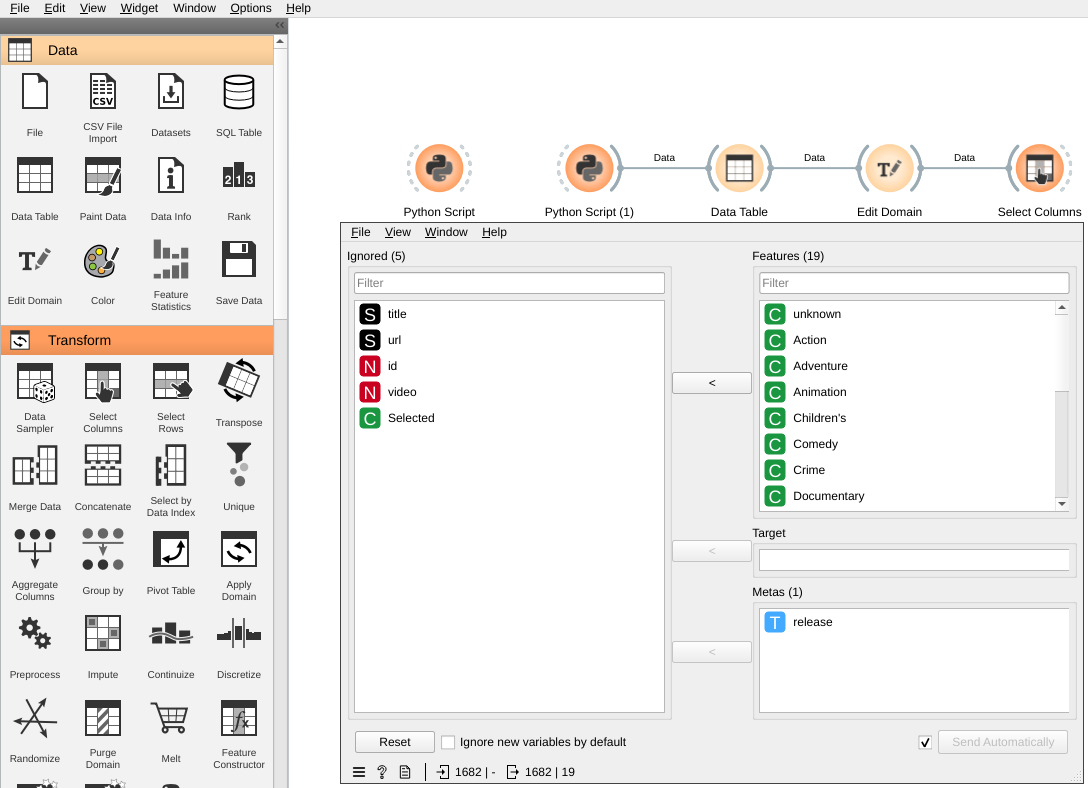
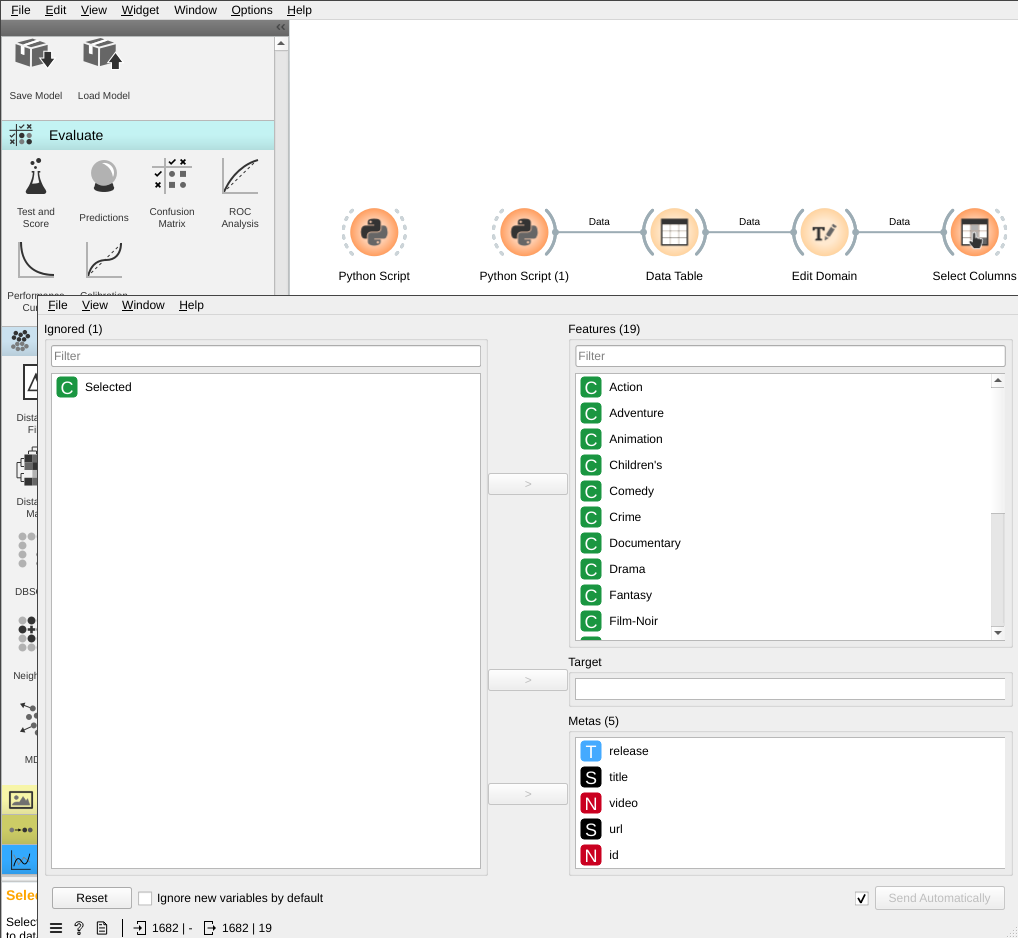
update lab3

diff --git a/lab3.md b/lab3.md
@@ -171,17 +171,19 @@ The `release` column contains the release date of the movie. It could be convert
 
 ![](lab3/images/edit_domain.png)
 
-Some of the columns in the dataset are not useful for finding similar movies. For example, the `id` column is just an identifier for the movie. The `title` column contains the title of the movie. The `video` column contains empty values. The `url` column contains the IMDb URL of the movie. The `Selected` column is generated by the `Edit Domain` widget. These columns are not useful for finding similar movies. Thus, we will remove these columns using the `Select Columns` widget.
+The `Selected` column is generated by the `Edit Domain` widget. It's not useful for finding similar movies. Thus, we will remove this column using the `Select Columns` widget.
 
 ![screenshot](lab3/images/select_columns.png)
 
-Please add a `Select Columns` widget and connect the `Edit Domain` widget to the `Select Columns` widget. Then, click on the `Select Columns` widget and select the columns you want to keep. In this case, we will keep all columns except `id`, `title`, `release`, `video`, `url` and `Selected` columns.
+Please add a `Select Columns` widget and connect the `Edit Domain` widget to the `Select Columns` widget. Then, click on the `Select Columns` widget and select the columns you want to keep. In this case, we will keep all columns except `Selected` column.
 
 ## Calculate the distance
 
 In order to measure the similarity between two movies, we need to calculate the distance between two movies. To calculate the distance between two movies, please add a `Distance` widget and connect the `Select Columns` widget to the `Distance` widget. The `Distance` widget will calculate the distance between movies. Each row in the dataset represents a movie and each column in the dataset represents a feature of the movie. Thus, we select compare rows in the widget settings.
 
 ![screenshot](lab3/images/distance.png)
+
+The `Distance` widget will calculate the distance using categorical and numeric features only. All metadata will be ignored. But those metadata could be used to identify data in the resulting visualization.
 
 ### Euclidean distance
 
@@ -239,3 +241,16 @@ Distance Map is a widget that visualizes the distance between items in a 2D map.
 
 ![screenshot](lab3/images/distance_map.png)
 
+The `Distance Map` widget will visualize the distance between movies in a 2D map. The distance between movies is calculated using the corresponding distance function.
+
+### Scatter Plot with Multidimensional Scaling
+
+Another way to visualize the distance between movies is to use the `MDS` widget. The `MDS` widget allow us to visualize data in a scatter plot by apply [Multidimensional Scaling](https://en.wikipedia.org/wiki/Multidimensional_scaling) to the data. Please add three `MDS` widgets and connect to each `Distance` widget.
+
+![screenshot](lab3/images/mds.png)
+
+You will need to increase the jitter in the `MDS` widget settings to see the points in the scatter plot. You may mouse-over the points in the scatter plot to see the movie title. The `MDS` widget will visualize the distance between movies in a scatter plot. The distance between movies is calculated using the corresponding distance function.
+
+# Exercise: Find similar products in the Amazon dataset
+
+In this exercise, we will re-use the Amazon dataset from Lab 2. 
